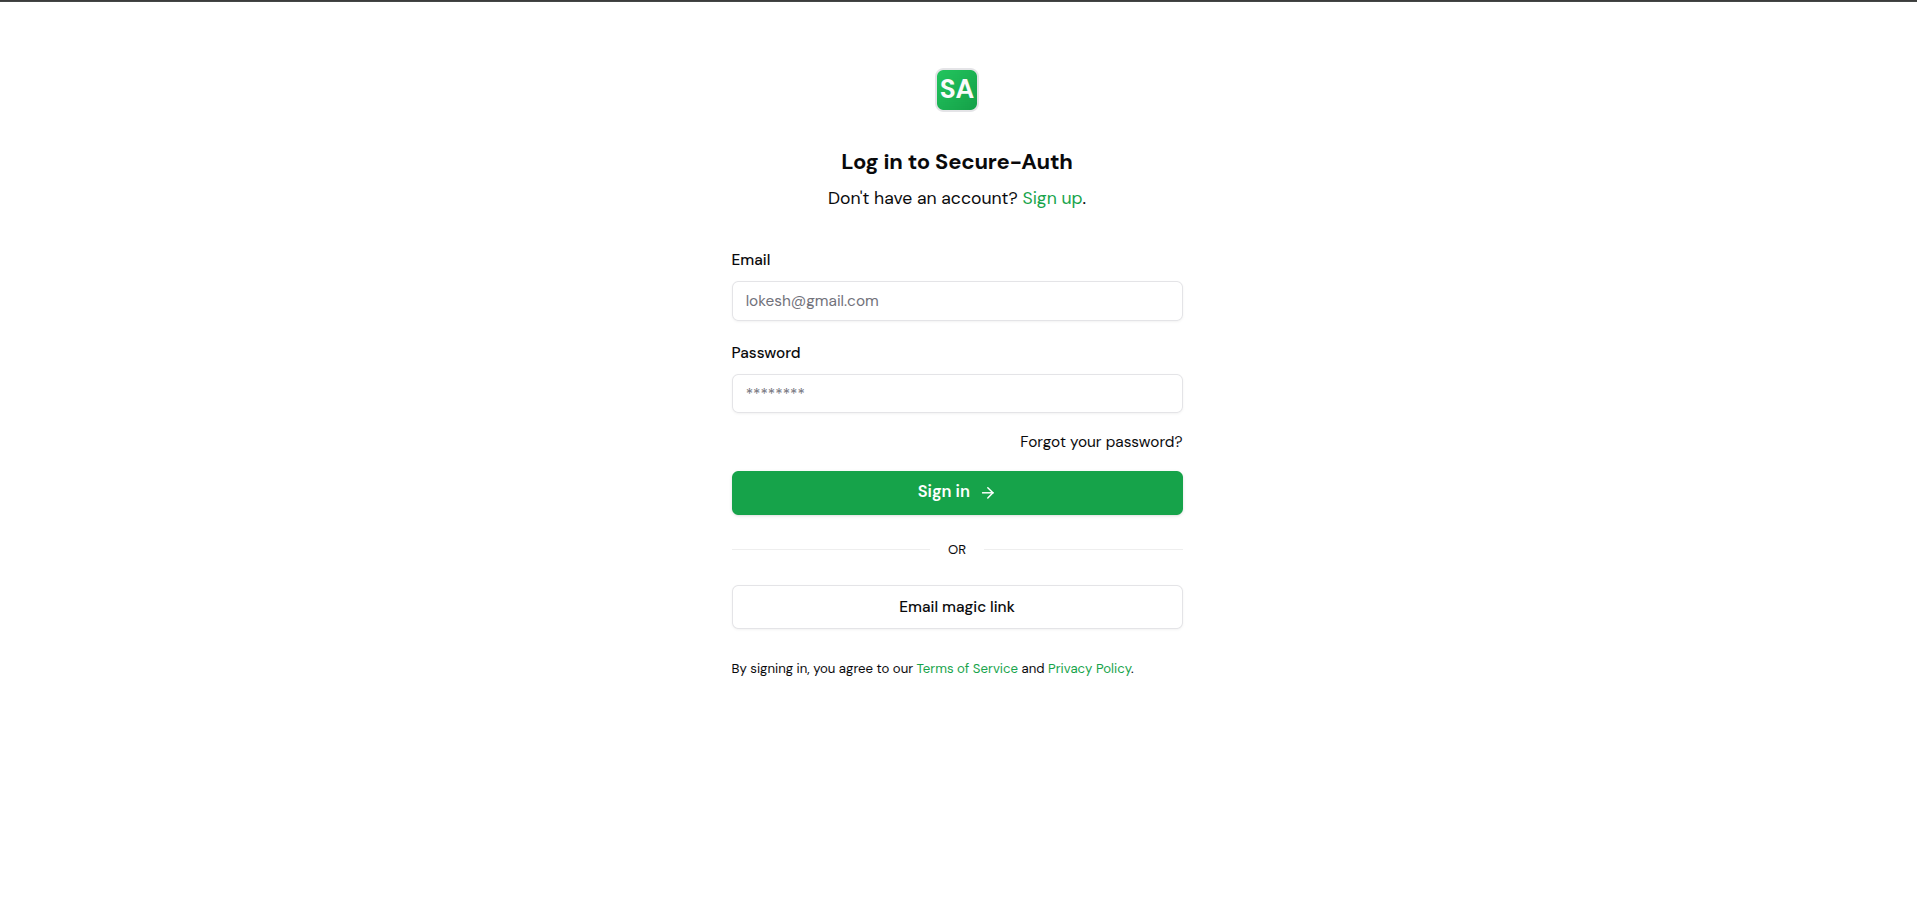
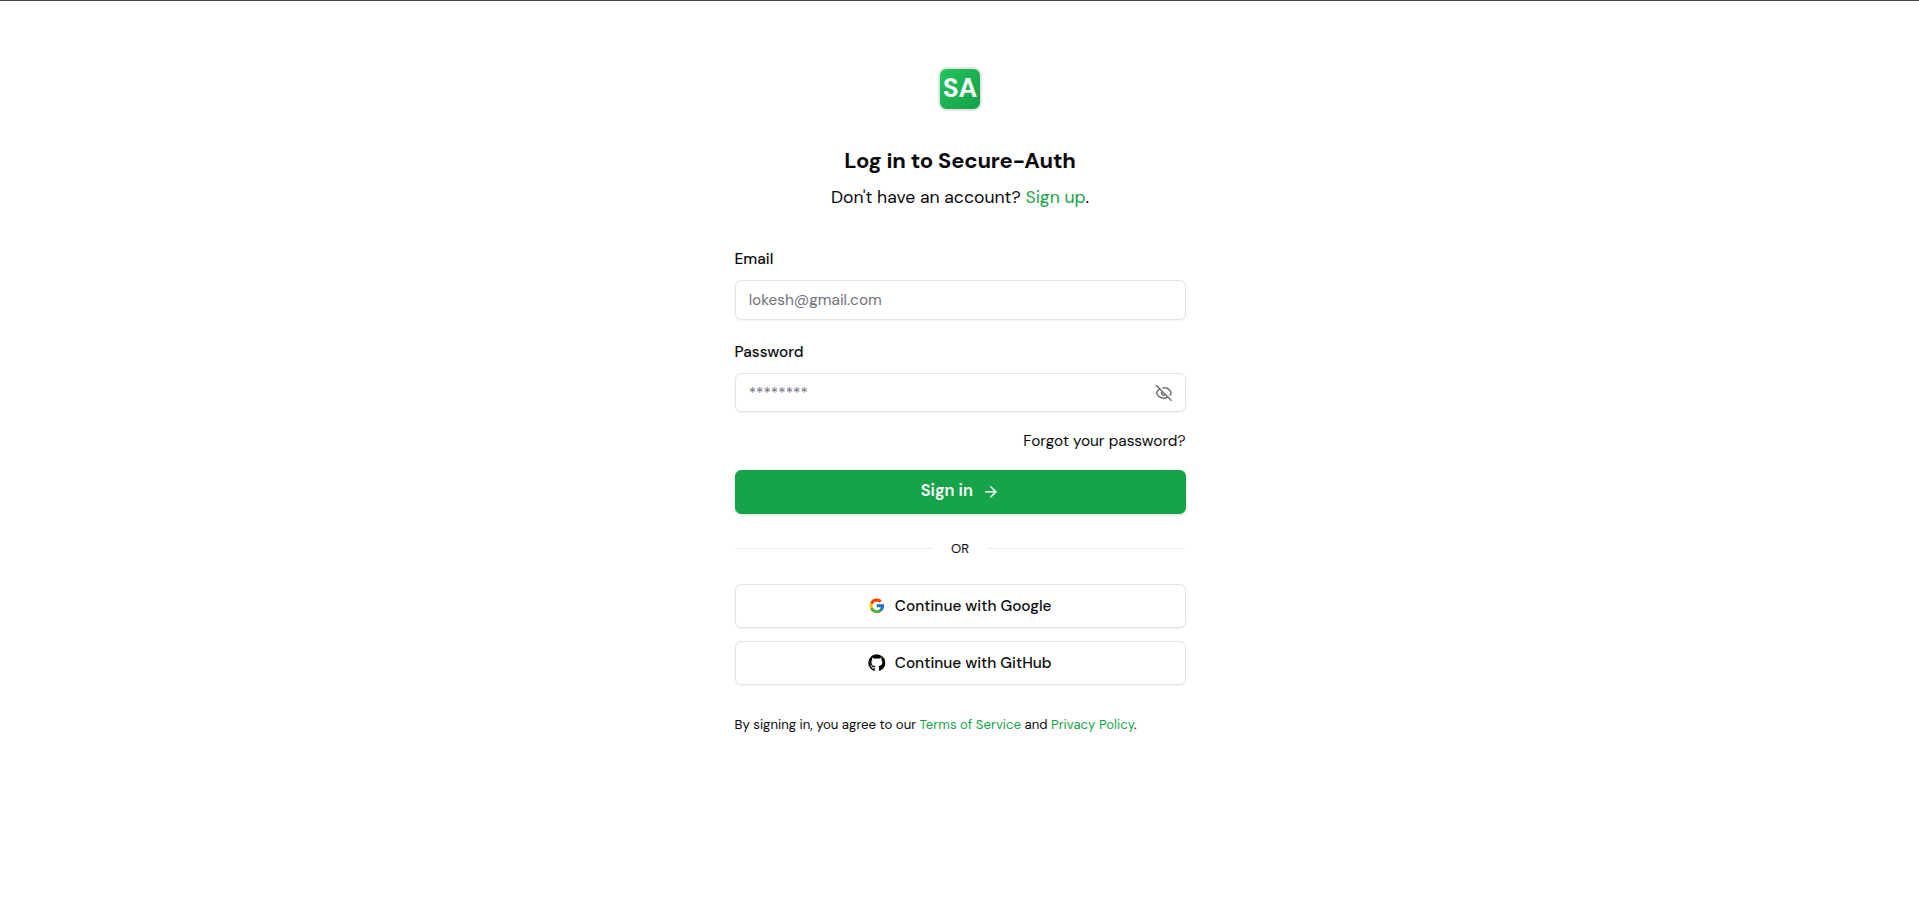
chore: update readme and assets

diff --git a/README.md b/README.md
@@ -141,6 +141,10 @@ cd client && npm run dev
 
 ![Login](./assets/login.png)
 
+### Outh Screen
+
+![Oauth](./assets/Oauth.png)
+
 ### Dashboard
 
 ![Dashboard](./assets/home.png)
